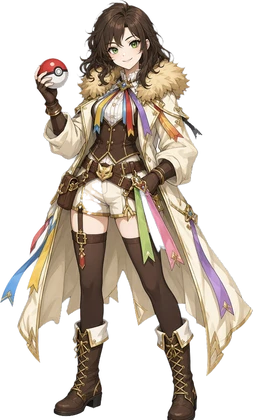
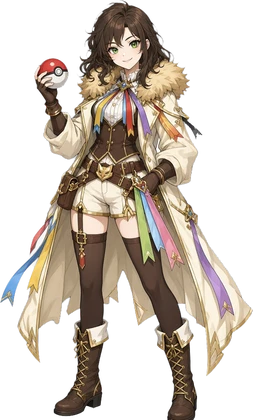
Nat: HD smooth trainer sprite (3x, Lanczos) + outline shadow, opaque interior alpha; pkl-v9

Changed region(s): [[0.5534, 0.4333, 0.664, 0.619], [0.3043, 0.4333, 0.415, 0.5262]]

diff --git a/tests/nat.js b/tests/nat.js
@@ -13,15 +13,15 @@ const URL = process.argv[2] || 'http://127.0.0.1:18473/', OUT = '/workspace/poke
     await p.waitForTimeout(500); await p.evaluate(() => document.querySelector('#modal-root').innerHTML = '');
     await p.evaluate(() => PokeApp.debug.go('settings')); await p.fill('#giftCode', 'EDSON-LENDAS'); await p.click('#giftForm button'); await p.waitForTimeout(1500);
     await p.evaluate(() => { const S = PokeApp.debug.S; S.champion = true; S.badges = [0,1,2,3,4,5,6,7]; S.party[0].lvl = 80; document.querySelector('#modal-root').innerHTML = ''; PokeApp.debug.save(); PokeApp.debug.go('home'); });
-    await p.waitForTimeout(800); await p.screenshot({ path: OUT + tag + '-nat-fix-home.png' });
-    await p.evaluate(() => PokeApp.debug.go('battle')); await p.waitForTimeout(500); await p.evaluate(() => document.querySelector('.natcard').scrollIntoView()); await p.screenshot({ path: OUT + tag + '-nat-fix-gyms.png' });
-    await p.click('.natcard'); await p.waitForTimeout(1500); await p.screenshot({ path: OUT + tag + '-nat-fix-intro.png' });
-    await p.waitForTimeout(9000); await p.screenshot({ path: OUT + tag + '-nat-fix-battle.png' });
+    await p.waitForTimeout(800); await p.screenshot({ path: OUT + tag + '-nat-hd-home.png' });
+    await p.evaluate(() => PokeApp.debug.go('battle')); await p.waitForTimeout(500); await p.evaluate(() => document.querySelector('.natcard').scrollIntoView()); await p.screenshot({ path: OUT + tag + '-nat-hd-gyms.png' });
+    await p.click('.natcard'); await p.waitForTimeout(1500); await p.screenshot({ path: OUT + tag + '-nat-hd-intro.png' });
+    await p.waitForTimeout(9000); await p.screenshot({ path: OUT + tag + '-nat-hd-battle.png' });
     const team = await p.evaluate(() => PokeApp.debug.B.s.sides[1].party.map(m => m.id + ':' + m.lvl)); console.log(tag, 'time da Nat', team);
     // jogar automaticamente até o fim
     for (let k = 0; k < 120; k++) { const done = await p.evaluate(() => !PokeApp.debug.B); if (done) break;
       await p.evaluate(() => { const b = document.querySelector('.bmoves .mvb:not([disabled]), .bmoves button:not([disabled])') || document.querySelector('[data-b="fight"]') || document.querySelector('.bparty button:not([disabled]), .pkpick button:not([disabled])'); if (b) b.click(); }); await p.waitForTimeout(700); }
-    await p.waitForTimeout(1500); await p.screenshot({ path: OUT + tag + '-nat-fix-end.png' });
+    await p.waitForTimeout(1500); await p.screenshot({ path: OUT + tag + '-nat-hd-end.png' });
     console.log(tag, 'nat', JSON.stringify(await p.evaluate(() => PokeApp.debug.S.nat)), 'erros', errs);
     await ctx.close(); }
   await b.close();

diff --git a/index.html b/index.html
@@ -15,7 +15,7 @@
 <link rel="apple-touch-icon" href="icon-180.png">
 <link rel="manifest" href="manifest.webmanifest">
 <title>Pokémon Lake</title>
-<link rel="stylesheet" href="css/style.css?v=8">
+<link rel="stylesheet" href="css/style.css?v=9">
 </head>
 <body>
 <div id="bg-fx" aria-hidden="true"></div>
@@ -23,11 +23,11 @@
 <div id="modal-root"></div>
 <div id="toast-root"></div>
 <noscript>Ative o JavaScript para jogar.</noscript>
-<script src="js/sha256.js?v=8"></script>
-<script src="js/data-gen.js?v=8"></script>
-<script src="js/engine.js?v=8"></script>
-<script src="js/content.js?v=8"></script>
-<script src="js/save.js?v=8"></script>
-<script src="js/app.js?v=8"></script>
+<script src="js/sha256.js?v=9"></script>
+<script src="js/data-gen.js?v=9"></script>
+<script src="js/engine.js?v=9"></script>
+<script src="js/content.js?v=9"></script>
+<script src="js/save.js?v=9"></script>
+<script src="js/app.js?v=9"></script>
 </body>
 </html>

diff --git a/css/style.css b/css/style.css
@@ -347,5 +347,5 @@ img[src*="img/front/"],img[src*="img/shiny/"],img[src*="img/mega/front"],img[src
 .bmon img[src],.bmon img{image-rendering:auto}
 .evostage img,.bigspr,.hatched{object-fit:scale-down!important}
 .intro.nat .vs{position:relative;z-index:2}.natname small{letter-spacing:.3em;color:#f9a8d4;font-weight:800}.natname b{font-size:2.6rem;background:linear-gradient(90deg,#f87171,#fbbf24,#4ade80,#38bdf8,#a78bfa,#f472b6);-webkit-background-clip:text;background-clip:text;color:transparent}.natname span{font-size:.8rem;color:#e9d5ff}
-.natvsimg,.foe[src*="tr/nat"]{image-rendering:pixelated!important}
+.natvsimg,.foe[src*="tr/nat"]{image-rendering:auto!important;filter:drop-shadow(0 0 1px rgba(10,0,20,.9)) drop-shadow(0 3px 4px rgba(0,0,0,.45))}
 .vs img{height:min(30vh,200px,36vw)}

diff --git a/sw.js b/sw.js
@@ -1,5 +1,5 @@
 // Service worker: só faz cache de arquivos do app. NUNCA mexe em localStorage/IndexedDB (saves).
-const V = 'pkl-v8';
+const V = 'pkl-v9';
 self.addEventListener('install', e => self.skipWaiting());
 self.addEventListener('activate', e => e.waitUntil(caches.keys().then(ks => Promise.all(ks.filter(k => k !== V && k !== 'pkl-media').map(k => caches.delete(k)))).then(() => self.clients.claim())));
 self.addEventListener('fetch', e => {
